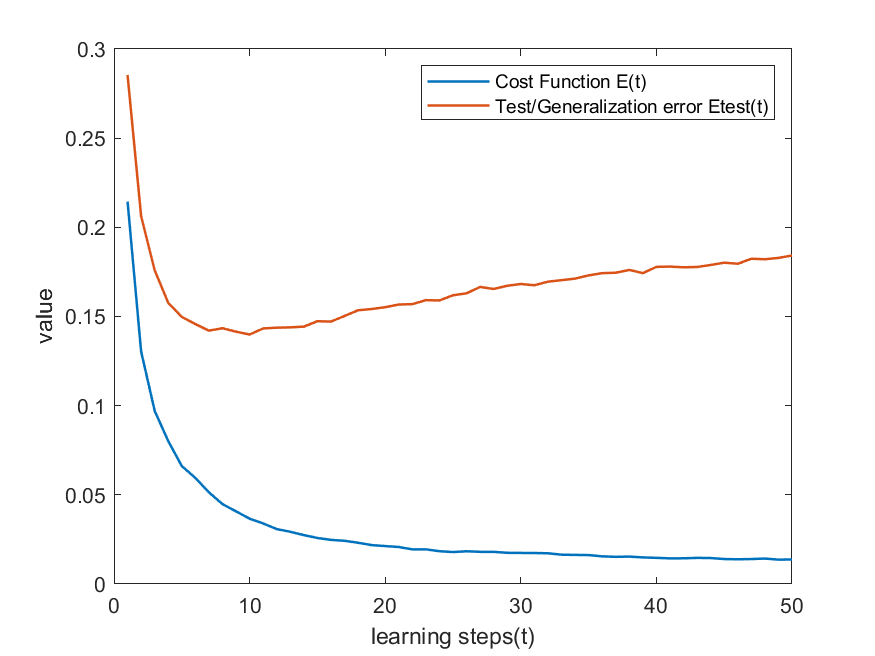
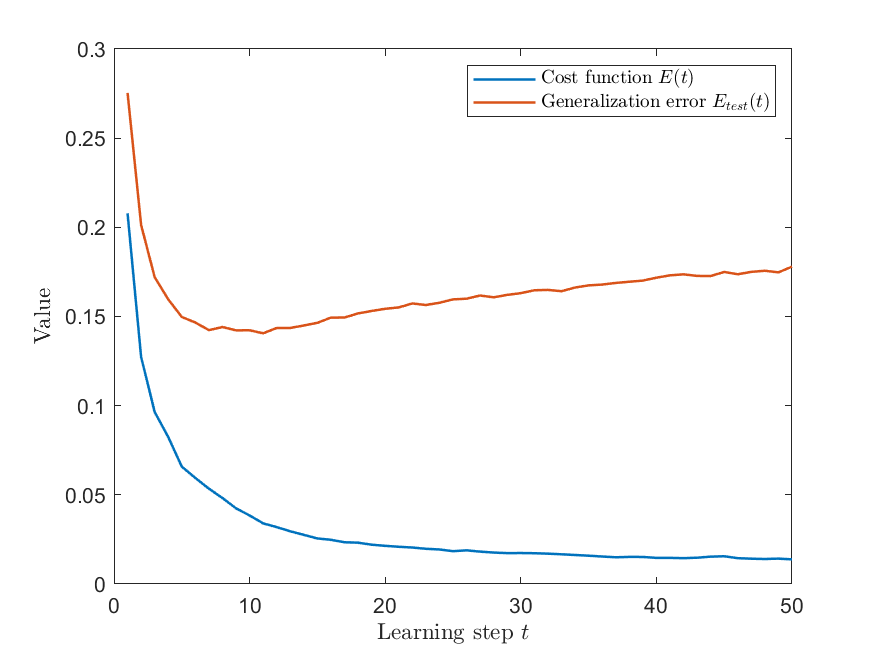
Polished plots

diff --git a/Stochastic Gradient Descent/legappend.m b/Stochastic Gradient Descent/legappend.m
@@ -1,0 +1,97 @@
+function [legend_h,object_h,plot_h,text_strings] = legappend(newStrings,varargin)
+%LEGAPPEND appends new entries to the end of a legend by deleting the
+%current legend and recreating a new, similar legend. 
+% 
+%% Syntax
+% 
+% legappend('new legend entry') 
+% legappend('new entry 1','new entry 2',...,'new entry N') 
+% legappend('') 
+% legappend('','',...,'')
+% [legend_h,object_h,plot_h,text_strings] = legappend(...)
+% 
+%% Description 
+% 
+% legappend('new legend entry') appends an existing legend with "new
+% legend entry".
+% 
+% legappend('new entry 1','new entry 2',...,'new entry N') adds several
+% new entries to the legend. 
+% 
+% legappend('') deletes the last entry from the legend. 
+% 
+% legappend('','',...,'') deletes the last several entries from the
+% legend.
+% 
+% [legend_h,object_h,plot_h,text_strings] = legappend(...) returns legend_h, the
+% handle of the new legend; object_h, handles of the line, patch, and
+% text graphics objects used in the legend; plot_h, handles of the lines
+% and other objects used in the plot; and text_strings, a cell array of
+% the text strings used in the legend. Note that for new legend entries,
+% legappend does not add entries to a current legend, but deletes the
+% current legend and recreates a new one. As a result, the legend handle
+% will change with each new-entry use of legappend.  The legend handle
+% does not change when legappend is used to delete an entry. 
+% 
+% 
+%% Author Info
+% This function was created by Chad A. Greene of the Institute for
+% Geophysics, The University of Texas at Austin, July 2014. 
+% 
+% See also legend.
+
+h =  findobj(gcf,'Type','axes','Tag','legend');
+
+prop.boxon = get(h,'visible');
+prop.loc = get(h,'location'); 
+prop.color = get(h,'color'); 
+prop.orient = get(h,'Orientation'); 
+
+
+
+allDatah = flipud(get(gca,'children')); 
+str = get(h,'String'); 
+
+if exist('varargin','var') 
+    newStrings = [newStrings,varargin];
+end
+deleteEntries = sum(cellfun('isempty',newStrings));
+if isempty(newStrings) 
+    deleteEntries = 1; 
+end
+
+if ~deleteEntries
+    if iscell(newStrings)
+        for k = 1:length(newStrings) 
+            str{end+1}=newStrings{k}; 
+        end
+    end 
+    if ~iscell(newStrings)
+        str{end+1}=newStrings; 
+    end
+
+
+    [legend_h,object_h,plot_h,text_strings] = legend(h,allDatah,str);
+
+    if strcmpi({prop.boxon},'off')
+        legend boxoff
+    end
+
+    set(legend_h,'location',prop.loc,'color',prop.color,'Orientation',prop.orient)
+
+
+end
+
+if deleteEntries
+    set(h,'String',str(1:end-nargin))
+    [legend_h,object_h,plot_h,text_strings] = legend;
+end
+
+
+if nargout==0
+    clear legend_h object_h plot_h text_strings
+end
+
+
+end
+
